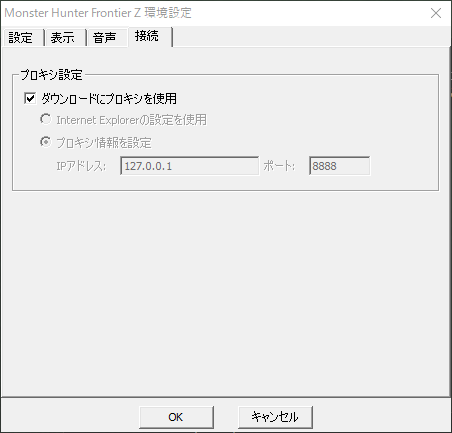
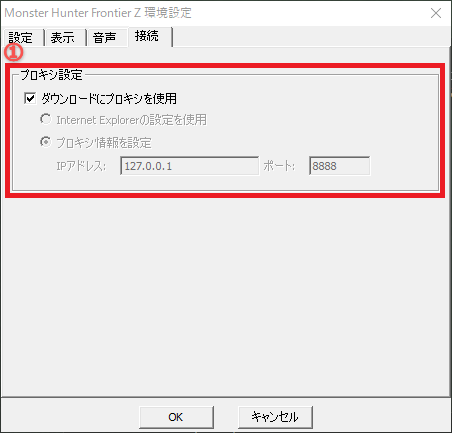
Complete launcher config section

Changed region(s): [[0.0, 0.0901, 0.9912, 0.4804]]

diff --git a/src/lib/articles/contents/begin_start.svelte b/src/lib/articles/contents/begin_start.svelte
@@ -176,15 +176,20 @@
             <ul class="img_desc_section">
                 <li class="img_desc_section_item">
                     ①設定スライダ
-                    <p class="img_desc_section_text">表示タブおよび音声タブの設定に対してプリセット3種（「高」「中」「低」）から一つ選択できます。<br />詳細設定ボタンをオンにした際は選択不可となり、プリセット表記は「カスタム」と表示されます。</p>
+                    <p class="img_desc_section_text">
+                        表示タブおよび音声タブの設定に対してプリセット3種（「高」「中」「低」）から一つ選択できます。<br
+                        />詳細設定ボタンをオンにした際は選択不可となり、プリセット表記は「カスタム」と表示されます。
+                    </p>
                 </li>
                 <li class="img_desc_section_item">
                     ②詳細設定ボタン
-                    <p class="img_desc_section_text">オンにすると、表示タブおよび音声タブにて設定を自由に変更することができます。<br />カスタム設定有効時には、設定スライダ内のプリセット表記が「カスタム」となります。</p>
+                    <p class="img_desc_section_text">
+                        オンにすると、表示タブおよび音声タブにて設定を自由に変更することができます。<br />カスタム設定有効時には、設定スライダ内のプリセット表記が「カスタム」となります。
+                    </p>
                 </li>
                 <li class="img_desc_section_item">
                     ③HGEチェックボックス
-                    <p class="img_desc_section_text">チェックを入れると、「High Grade Edition」が有効となります。</p>
+                    <p class="img_desc_section_text">チェックを入れると、「High Grade Edition」が有効になります。</p>
                 </li>
             </ul>
         </li>
@@ -194,21 +199,46 @@
             <ul class="img_desc_section">
                 <li class="img_desc_section_item">
                     ①画面サイズ設定
-                    <p class="img_desc_section_text">「起動モード」にてゲーム開始時の画面モードを、「ウィンドウモード」もしくは「フルスクリーンモード」から選択し、「画面サイズ」にて各画面モードでの画面サイズの指定ができます。</p>
+                    <p class="img_desc_section_text">
+                        「起動モード」にてゲーム開始時の画面モードを、「ウィンドウモード」もしくは「フルスクリーンモード」から選択し、「画面サイズ」にて各画面モードでの画面サイズの指定ができます。
+                    </p>
                 </li>
                 <li class="img_desc_section_item">
                     ②圧縮テクスチャ
-                    <p class="img_desc_section_text">DXTC（画像圧縮技術）の有効もしくは無効を選択します。<br />「有効」では、画像処理は速くなる一方、画像細部が粗くなります。<br>「無効」では、画像処理は遅くなる一方、画像細部が高精細になります。</p>
+                    <p class="img_desc_section_text">
+                        DXTC（画像圧縮技術）の有効もしくは無効を選択します。<br />「有効」では、画像処理は速くなる一方、画像細部が粗くなります。<br
+                        />「無効」では、画像処理は遅くなる一方、画像細部が高精細になります。
+                    </p>
                 </li>
             </ul>
         </li>
         <li class="center_box_no_number">
             <p class="center_box_no_number_text">【音声】タブ</p>
             <p class="center_box_no_number_img"><img src="/img/{$locale}/articles/begin/start/launcher_3.png" alt="launcher_3" /></p>
+            <ul class="img_desc_section">
+                <li class="img_desc_section_item">
+                    ①音量設定
+                    <p class="img_desc_section_text">3種のゲームウィンドウ（「通常（アクティブ時）」「非アクティブ時」「最小化時」）それぞれに応じて、各音量をスライダにより調節することができます。</p>
+                </li>
+                <li class="img_desc_section_item">
+                    ②サンプリングレート
+                    <p class="img_desc_section_text">
+                        ご使用のサウンドカードに合わせてサンプリングレートおよびバッファサイズを設定できます。<br
+                        />サンプリングレートとは、音声等のアナログ信号をデジタル信号へ変換するために必要となる標本化を実行する単位時間あたりの処理回数を表す値の事です。一般的に、この値が高くなるにつれ、音質の向上が見込まれるものの、その分データ量も増加するため、ストレージや帯域幅に影響を与えます。一方、値が極度に低くなれば、音質の低下や不自然な音を引き起こす可能性があります。<br
+                        />バッファサイズとは、一時的に先読みさせておいたデータを保存する領域の大きさの事を指します。値が大きいと、音声再生までの待ち時間が長くなる一方、音飛びが発生しづらくなります。値が小さいと、音声再生までの待ち時間が短くなる一方、音飛びが発生しやすくなります。
+                    </p>
+                </li>
+            </ul>
         </li>
         <li class="center_box_no_number">
             <p class="center_box_no_number_text">【接続】タブ</p>
             <p class="center_box_no_number_img"><img src="/img/{$locale}/articles/begin/start/launcher_4.png" alt="launcher_4" /></p>
+            <ul class="img_desc_section">
+                <li class="img_desc_section_item">
+                    ①プロキシ設定
+                    <p class="img_desc_section_text">「ダウンロードにプロキシを使用」にチェックを入れると、プロキシサーバーを経由してゲームへ接続することができます。<br>※現在、日本語版では利用不可、英語版およびフランス語版でのみ利用可能です。</p>
+                </li>
+            </ul>
         </li>
     </ul>
 </section>
@@ -233,7 +263,7 @@
         <li class="center_box">
             <p class="center_box_text">
                 （2）ランチャー画面が起動します。<br />
-                赤枠内にユーザー名とパスワードを入力し、「ログイン」ボタンをクリックするとログインが行なわれ、アップデートもしくはファイルチェックが開始されます。
+                赤枠内にユーザー名とパスワードを入力し、「ログイン」ボタンをクリックするとログインが行なわれ、アップデートが開始されます。
             </p>
             <p class="center_box_img">
                 <img src="/img/{$locale}/articles/begin/start/login_2.png" alt="login_2" />

diff --git a/static/sass/manual/_pc.scss b/static/sass/manual/_pc.scss
@@ -691,7 +691,7 @@
     .img_desc_section {
         --x-gradient: linear-gradient(90deg, #6bec9c 0 25px, transparent 0 calc(100% - 25px), #6bec9c calc(100% - 25px));
         --y-gradient: linear-gradient(#6bec9c 0 25px, transparent 0 calc(100% - 25px), #6bec9c calc(100% - 25px));
-        outline: 2px solid;
+        outline: rgb(160, 160, 160) 2px solid;
         outline-offset: -5px;
         background-image: var(--x-gradient), var(--y-gradient), var(--x-gradient), var(--y-gradient);
         background-repeat: no-repeat;
